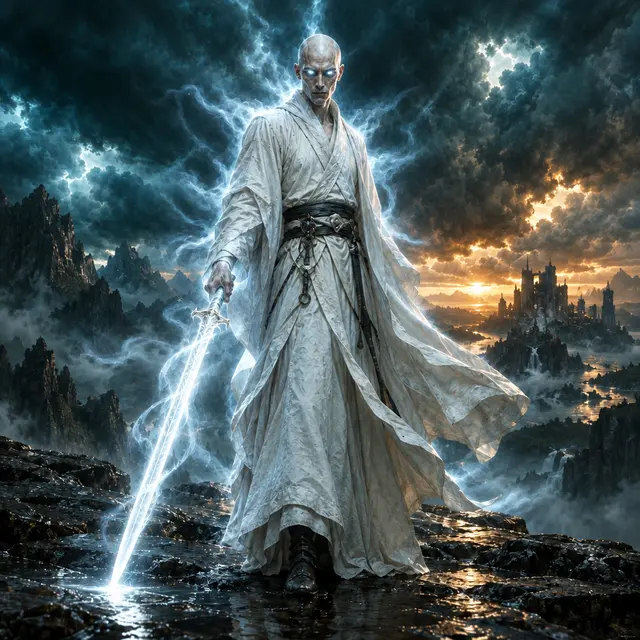
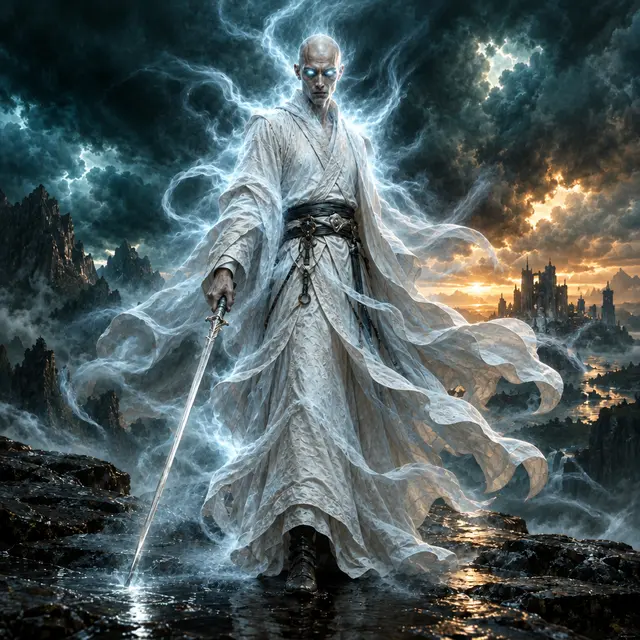
Progression des serments fidèle au canon : Lame au 3e Idéal, Souffle de Stormlight au 2e
- Niveau 2 « Souffle de Stormlight » : +5 PV immédiats au héros et aura
  permanente +1 ATK à toutes ses unités (affichée sur les cartes du plateau,
  comme le Tandem de Drehy & Skar qui ne l'était pas).
- Niveau 3 « Jureur » : la Lance/Lame d'Éclat se manifeste (+2 ATK au héros)
  en même temps que le pouvoir (Lashing / Jugement Céleste).
- Récompenses de serment centralisées (applyOathRewards), utilisées aussi par
  setLinkLevel ; soin du héros animé (+N) par la couche d'effets.
- Portraits de niveau 2 régénérés sans arme de lumière (lance de bois /
  épée ordinaire) ; textes des capacités, des Spren et du README alignés.

Claude-Session: https://claude.ai/code/session_01SwApiQvUbCaWU2GjXj9hx1

diff --git a/src/store/gameStore.ts b/src/store/gameStore.ts
@@ -6,7 +6,14 @@ import { buildDeckCards, getDeckBundle, DEFAULT_DECK_IDS } from '../data/cards/l
 const STARTING_HAND_SIZE = 4;
 const MAX_STORMLIGHT = 10;
 const MAX_LINK_LEVEL: LinkLevel = 4;
+/** Niveau 4 (Plaque d'Éclat) : bouclier gagné en prononçant le serment. */
 const ARMOR_SHIELD_BONUS = 15;
+/** Niveau 2 (Souffle de Stormlight) : soin immédiat du héros. */
+const OATH_HEAL = 5;
+/** Niveau 2 : aura permanente, +1 ATK à toutes les unités alliées. */
+const OATH_ALLY_ATTACK_BONUS = 1;
+/** Niveau 3 (Lame d'Éclat) : ATK du héros. */
+const BLADE_HERO_ATTACK_BONUS = 2;
 const NIGHTBLOOD_SELF_DAMAGE = 5;
 
 function shuffle<T>(items: T[]): T[] {
@@ -59,20 +66,33 @@ function hasKeyword(card: Card, keyword: string): boolean {
   return card.keywords?.includes(keyword as never) ?? false;
 }
 
-/** Calcule l'ATK effective d'une unité (Tandem de Drehy & Skar). */
+/** Calcule l'ATK effective d'une unité (Tandem de Drehy & Skar, Souffle de Stormlight niveau 2). */
 function getEffectiveAttack(player: PlayerState, unit: UnitInPlay): number {
   let attack = unit.currentAttack;
   if (unit.card.id === 'drehy-skar') {
     const tandemCount = player.board.filter((u) => u.card.id === 'drehy-skar').length;
     if (tandemCount >= 2) attack += 1;
   }
+  if (player.linkLevel >= 2) attack += OATH_ALLY_ATTACK_BONUS;
   return attack;
 }
 
-/** Calcule l'ATK effective du héros (Spren niveau 2 : +2 ATK). */
+/** Calcule l'ATK effective du héros (Lame d'Éclat au niveau 3 : +2 ATK). */
 function getEffectiveHeroAttack(player: PlayerState): number {
   const baseAttack = player.heroCard.type === 'radiant' ? player.heroCard.attack : 0;
-  return baseAttack + (player.linkLevel >= 2 ? 2 : 0);
+  return baseAttack + (player.linkLevel >= 3 ? BLADE_HERO_ATTACK_BONUS : 0);
+}
+
+/**
+ * Applique les récompenses immédiates des serments franchis entre deux niveaux :
+ * niveau 2 soigne le héros, niveau 4 lui donne la Plaque (bouclier). L'aura
+ * d'ATK du niveau 2 et la Lame du niveau 3 sont, elles, calculées à la volée.
+ */
+function applyOathRewards(player: PlayerState, fromLevel: LinkLevel, toLevel: LinkLevel): PlayerState {
+  let updated = { ...player, linkLevel: toLevel };
+  if (fromLevel < 2 && toLevel >= 2) updated = { ...updated, heroHealth: updated.heroHealth + OATH_HEAL };
+  if (fromLevel < 4 && toLevel >= 4) updated = { ...updated, heroShield: updated.heroShield + ARMOR_SHIELD_BONUS };
+  return updated;
 }
 
 function findOtherPlayerId(game: GameState, playerId: string): string {
@@ -82,12 +102,7 @@ function findOtherPlayerId(game: GameState, playerId: string): string {
 function gainLink(player: PlayerState, levels = 1): PlayerState {
   const newLevel = Math.min(MAX_LINK_LEVEL, player.linkLevel + levels) as LinkLevel;
   if (newLevel === player.linkLevel) return player;
-  const reachedArmor = newLevel === 4 && player.linkLevel < 4;
-  return {
-    ...player,
-    linkLevel: newLevel,
-    heroShield: reachedArmor ? player.heroShield + ARMOR_SHIELD_BONUS : player.heroShield,
-  };
+  return applyOathRewards(player, player.linkLevel, newLevel);
 }
 
 /** Gain de Lien conditionné au déclencheur de l'ordre du héros. */
@@ -378,17 +393,12 @@ export const useGameStore = create<GameStore>((set) => ({
     set((state) => {
       const player = state.game.players[playerId];
       if (!player) return state;
-      const reachedArmor = level === 4 && player.linkLevel < 4;
       return {
         game: {
           ...state.game,
           players: {
             ...state.game.players,
-            [playerId]: {
-              ...player,
-              linkLevel: level,
-              heroShield: reachedArmor ? player.heroShield + ARMOR_SHIELD_BONUS : player.heroShield,
-            },
+            [playerId]: applyOathRewards(player, player.linkLevel, level),
           },
         },
       };

diff --git a/src/components/GameBoard.tsx b/src/components/GameBoard.tsx
@@ -1,5 +1,5 @@
 import { useEffect, useRef, useState } from 'react';
-import { useGameStore } from '../store/gameStore';
+import { useGameStore, getEffectiveAttack } from '../store/gameStore';
 import { useFxStore } from '../store/fxStore';
 import { getDeckBundle } from '../data/cards/loader';
 import { CardComponent } from './CardComponent';
@@ -389,7 +389,7 @@ export function GameBoard({ localPlayerId = 'player1', hotseat = false, onExit }
               key={unit.instanceId}
               card={unit.card}
               fxId={unit.instanceId}
-              currentAttack={unit.currentAttack}
+              currentAttack={getEffectiveAttack(opponent, unit)}
               currentHealth={unit.currentHealth}
               lashed={unit.isLashed}
               guarding={Boolean(unit.guarding)}
@@ -412,7 +412,7 @@ export function GameBoard({ localPlayerId = 'player1', hotseat = false, onExit }
               <CardComponent
                 card={unit.card}
                 fxId={unit.instanceId}
-                currentAttack={unit.currentAttack}
+                currentAttack={getEffectiveAttack(localPlayer, unit)}
                 currentHealth={unit.currentHealth}
                 lashed={unit.isLashed}
                 guarding={Boolean(unit.guarding)}

diff --git a/src/game/combatFx.ts b/src/game/combatFx.ts
@@ -132,6 +132,8 @@ export function diffAndSpawn(
     if (!pos) continue;
     const dmg = b.heroHealth + b.heroShield - (a.heroHealth + a.heroShield);
     if (dmg > 0) spawn({ ...pos, kind: 'damage', text: `-${dmg}` });
+    const heal = a.heroHealth - b.heroHealth;
+    if (heal > 0) spawn({ ...pos, kind: 'buff', text: `+${heal}` });
     if (a.linkLevel > b.linkLevel) spawn({ ...pos, kind: 'link', text: '✦ Lien' });
   }
 }

diff --git a/src/assets/cards/README.md b/src/assets/cards/README.md
@@ -49,8 +49,8 @@ Ces cartes ne sont pas dans le deck : elles apparaissent à côté du héros
 quand il prononce le serment correspondant (voir `manifestations` dans le
 JSON du deck).
 
-- `sylphrena-lance.webp` (Lien 2) · `kaladin-plaque.webp` (Lien 4)
-- `hautjuge-lame.webp` (Lien 2) · `szeth-plaque.webp` (Lien 4)
+- `sylphrena-lance.webp` (Lien 3) · `kaladin-plaque.webp` (Lien 4)
+- `hautjuge-lame.webp` (Lien 3) · `szeth-plaque.webp` (Lien 4)
 
 ## Stades d'évolution et boucles vidéo
 
